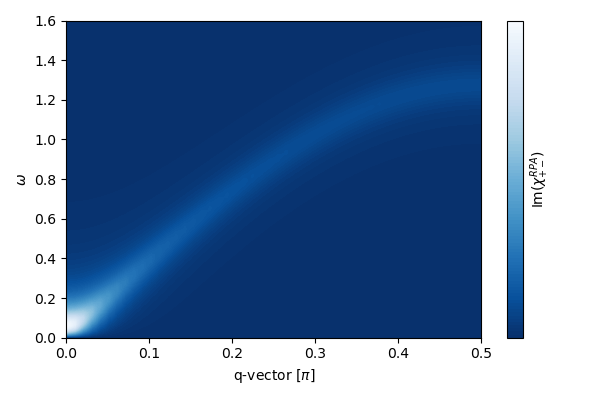
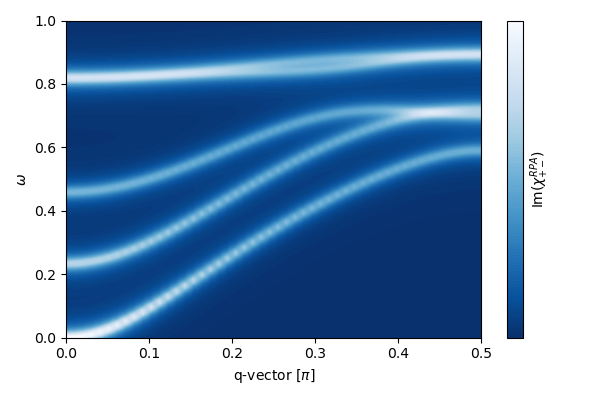
Update

Changed region(s): [[0.06, 0.06, 0.81, 0.87], [0.06, 0.33, 0.09, 0.39], [0.06, 0.03, 0.09, 0.06]]

diff --git a/src/pyqula/chitk/chiAB.py b/src/pyqula/chitk/chiAB.py
@@ -6,7 +6,8 @@ from numba import jit,prange
 
 @jit(nopython=True)
 def chiAB_jit(ws1,es1,ws2,es2,omegas,A,B,T,delta):
-    """Compute the response function"""
+    """Compute the response function.
+    A and B are expected to be local operators, like Sz in site 0"""
     cutoff = delta/100 # cutoff for occupation difference
     beta = 1./T # thermal broadening
     out  = np.zeros(omegas.shape[0],dtype=np.complex128) # initialize
@@ -31,13 +32,109 @@ def chiAB_jit(ws1,es1,ws2,es2,omegas,A,B,T,delta):
 
 @jit(nopython=True,parallel=True)
 def chiAB_matrix_jit(ws1,es1,ws2,es2,energies,Ais,Bjs,temp,delta):
-    """Compute the ChiAB matrix"""
+    """Compute the full ChiAB matrix, element by element"""
     ni = len(Ais) # number of operators
     nj = len(Bjs) # number of operators
     out = np.zeros((ni,nj,len(energies)),dtype=np.complex128) # initialize
-    for i in prange(ni): # loop
-        for j in prange(nj): # loop
+    for i in prange(ni): # loop over rows of the matrix
+        for j in prange(nj): # loop over columns of the matrix
             out[i,j,:] = chiAB_jit(ws1,es1,ws2,es2,energies,Ais[i],
                     Bjs[j],temp,delta) # compute the response
-    return out # return
+    return np.transpose(out,(2,0,1)) # return transposed, first energy, then ij
+
+
+@jit(nopython=True)
+def chiAB_full_matrix_jit(ws1,es1,ws2,es2,omegas,A,B,T,delta):
+    """Compute the full matrix of the response function.
+    A and B are full operators, for example the full Sz operator"""
+    ### WARNING ###
+    # this function assumes that the Hamiltonian is spinful and non-Nambu
+    ### WARNING ###
+    # initialize the result
+    ni = ws1.shape[0]//2 # number of operators, dimension of matrix/2
+    nj = ni # number of operators
+    outm = np.zeros((ni,nj,len(omegas)),dtype=np.complex128) # initialize
+    # now do the loop over wavefunctions
+    cutoff = delta/100 # cutoff for occupation difference
+    beta = 1./T # thermal broadening
+    n = len(ws1) # number of wavefunctions
+    Aws2 = (A@ws2.T).T # compute all the applied wavefunctions
+    Bws1 = (B@ws1.T).T # compute all the applied wavefunctions 
+    occs1 = (-np.tanh(beta*es1) + 1.)/2. # occupations
+    occs2 = (-np.tanh(beta*es2) + 1.)/2. # occupations
+    for i in range(n): # loop over wavefunctions
+        oi = occs1[i] # first occupation
+        for j in range(n): # loop over wavefunctions
+            oj = occs2[j] # second occupation
+            fac0 = oi - oj # occupation factor
+            if np.abs(fac0)<cutoff: continue # skip contribution if too small
+            wci = np.conjugate(ws1[i]) # get this wavefunction
+            wcj = np.conjugate(ws2[j]) # get this wavefunction
+            Awj = Aws2[j] # get this one
+            Bwi = Bws1[i] # get this one
+            for ii in range(ni): # loop over rows of the correlator
+                for jj in range(nj): # loop over columns of the correlator
+                    fac  = np.sum(wci[2*ii:2*ii+2]*Awj[2*ii:2*ii+2]) # add the factor
+                    fac *= np.sum(wcj[2*jj:2*jj+2]*Bwi[2*jj:2*jj+2]) # add the factor
+                    outm[ii,jj,:] += fac0*fac*(1./(es1[i]-es2[j] - omegas + 1j*delta)) # add contribution
+    return outm # return result
+
+
+@jit(nopython=True,parallel=True)
+def chiAB_full_matrix_jit_kmesh(ws1k,es1k,ws2k,es2k,omegas,A,B,T,delta):
+    """Parallelize over kpoints"""
+    nk = es1k[:,0].shape[0] # number of kpoints
+    ni = es1k[0,:].shape[0]//2 # number of operators, dimension of matrix/2
+    nj = ni # number of operators
+    out = np.zeros((nk,ni,nj,len(omegas)),dtype=np.complex128) # initialize
+    for ik in prange(nk): # parallel loop over kpoints
+        ws1 = ws1k[ik,:,:].copy()
+        ws2 = ws2k[ik,:,:].copy()
+        es1 = es1k[ik,:].copy()
+        es2 = es2k[ik,:].copy()
+        out[ik,:,:,:] = chiAB_full_matrix_jit(ws1,es1,ws2,es2,omegas,A,B,T,delta)
+    return out
+
+import scipy.linalg as lg
+
+def chiAB_matrix_ksum(h,ks,q,omegas,A,B,T,delta):
+    """Perform the integral over k, using parallelization
+    over kpoints"""
+    # this function is currently only implemented for spinful
+    # a spinless and Nmabu implementation needs to be done
+    if h.has_eh: raise # not implemented for Nambu
+    if not h.has_spin: raise # not implemented for spinless
+    hk = h.get_hk_gen() # get generator
+    n = h.intra.shape[0] # shape
+    nk = len(ks) # number of kpoints
+    # storages for all kpoints
+    es1k = np.zeros((nk,n),dtype=np.float64) # storage
+    es2k = np.zeros((nk,n),dtype=np.float64) # storage
+    ws1k = np.zeros((nk,n,n),dtype=np.complex128) # storage
+    ws2k = np.zeros((nk,n,n),dtype=np.complex128) # storage
+    ik = 0 # counter
+    for k in ks: # loop over kpoints
+        m1 = hk(k) # get Hamiltonian
+        es1,ws1 = lg.eigh(m1)
+        ws1 = np.array(ws1.T,dtype=np.complex128)
+        m2 = hk(k+q) # get Hamiltonian
+        es2,ws2 = lg.eigh(m2)
+        ws2 = np.array(ws2.T,dtype=np.complex128)
+        # now store all
+        es1k[ik,:] = es1[:]
+        es2k[ik,:] = es2[:]
+        ws1k[ik,:,:] = ws1[:,:]
+        ws2k[ik,:,:] = ws2[:,:]
+        ik += 1
+    # and now perform the calculation in parallel
+    out = chiAB_full_matrix_jit_kmesh(ws1k,es1k,ws2k,es2k,omegas,A,B,T,delta)
+    out = np.transpose(out,(0,3,1,2)) # switch the indexes
+    return np.mean(out,axis=0) # average over kpoints
+
+
+
+
+
+
+
 

diff --git a/src/pyqula/chi.py b/src/pyqula/chi.py
@@ -103,8 +103,10 @@ def chiAB(h,q=None,nk=60,**kwargs):
 
 def chiAB_q(h,energies=np.linspace(-3.0,3.0,100),q=[0.,0.,0.],nk=60,
                delta=0.1,temp=None,A=None,B=None,projs=None,
-               imode="mesh",
-               mode="matrix"):
+               imode="mesh", # integration mode in momentum space
+               ij_mode = "explicit", # loop over elements mode
+               mode="matrix" # return object
+               ):
     """Compute AB response function
        - energies: energies of the dynamical response
        - q: q-vector of the response
@@ -112,8 +114,10 @@ def chiAB_q(h,energies=np.linspace(-3.0,3.0,100),q=[0.,0.,0.],nk=60,
        - delta: imaginary part
        - A: first operator
        - B: second operator
-       - projs: projection operators
-       - mode: response to compute"""
+       - projs: local projection operators
+       - imode: integration mode
+       - ij_mode: loop ove elements mode
+       - mode: output to return"""
     if temp is None: temp = delta # as delta
     hk = h.get_hk_gen() # get generator
     if A is None or B is None:
@@ -128,6 +132,8 @@ def chiAB_q(h,energies=np.linspace(-3.0,3.0,100),q=[0.,0.,0.],nk=60,
     if projs is None:
         from . import operators
         projs = [operators.index(h,n=[i]) for i in range(len(h.geometry.r))]
+    else: 
+        ij_mode = "explicit" # do the loop explicitly
     pAs = np.array([pi@A for pi in projs]) # compute these projectors
     pBs = np.array([pi@B for pi in projs]) # compute these projectors
     def getk(k):
@@ -140,21 +146,29 @@ def chiAB_q(h,energies=np.linspace(-3.0,3.0,100),q=[0.,0.,0.],nk=60,
         def getAB(Ai,Bj): # compute for a single operator
             return chiAB_jit(ws1,es1,ws2,es2,energies,Ai,Bj,temp,delta)
         if mode=="matrix": # return a matrix
-            # simple implementation
+            # simplest implementation, not optimal
 #            out = np.array([[getAB(pA,pB) for pA in pAs] for pB in pBs])
+            # parallelized (over matrix elements) implementation
             parallel.set_num_threads() # set the number of threads
-            out = chiAB_matrix_jit(ws1,es1,ws2,es2,energies,
-                    pAs,pBs,temp,delta)
-            return np.transpose(out,(2,0,1)) # return array of matrices
+            out = chiAB_matrix_jit(ws1,es1,ws2,es2,energies,pAs,pBs,temp,delta)
+            return out # return array of matrices
         elif mode=="trace": # return the trace
             out = np.array([getAB(pi@A,pi@B) for pi in projs])
             return np.mean(out,axis=0) # sum over the first axis
+        elif mode=="diagonal": # return the diagonal elements
+            out = np.array([getAB(pi@A,pi@B) for pi in projs])
+            return np.transpose(out,(1,0)) # return, first energy, then i
         else: raise # not implemented
     ks = h.geometry.get_kmesh(nk=nk) # get the kmesh
     # call in parallel
     if imode=="mesh": # do a mesh
-        out = [getk(k) for k in ks] # call 
-        out = np.mean(out,axis=0) # sum over kpoints
+        if ij_mode=="accelerated": # (maybe?) accelerated function
+            parallel.set_num_threads() # set the number of threads
+            out = chiAB_matrix_ksum(h,ks,q,energies,A,B,temp,delta)
+        elif ij_mode=="explicit": # explicit function, this is preferred
+            out = [getk(k) for k in ks] # call 
+            out = np.mean(out,axis=0) # sum over kpoints
+        else: raise # not implemented
     elif imode=="adaptive": # do a mesh
         from . import integration
         if h.dimensionality==0: out = getk([0.]) # single point
@@ -185,7 +199,9 @@ def chiABmap(h,energies=np.linspace(-3.0,3.0,100),nq=30,
 
 # accelerated function to compute AB response
 from .chitk.chiAB import chiAB_matrix_jit
+from .chitk.chiAB import chiAB_full_matrix_jit
 from .chitk.chiAB import chiAB_jit
+from .chitk.chiAB import chiAB_matrix_ksum
 
 
 

diff --git a/src/pyqula/chitk/spinchi.py b/src/pyqula/chitk/spinchi.py
@@ -16,13 +16,15 @@ def spinchi_ladder(H,v=[0.,0.,1.],RPA=True,**kwargs):
     # this is not finished yet
     sp = (sx + 1j*sy)/2. # ladder operator
     sm = (sx - 1j*sy)/2. # ladder operator
-    U = H.V # get the interaction
-    if U is not None: # finite interaction
-        U = U[(0,0,0)] # onsite interaction matrix
-        U = sp@U # project on the operator
-        U = V2U_matrix(U) # transform the U matrix (2N) into the (N)
-        U = -2*U # beware of this minus sign for spin response (!!!)
-    if not RPA: U = None # no RPA
+    if RPA: # RPA mode
+        U = H.V # get the interaction
+        if U is not None: # finite interaction
+            if len(U)>1: raise # not implemented for momentum dependent
+            U = U[(0,0,0)] # onsite interaction matrix
+            U = sp@U # project on the operator
+            U = V2U_matrix(U) # transform the U matrix (2N) into the (N)
+            U = -2*U # beware of this minus sign for spin response (!!!)
+    else: U = None # no RPA
     return chi_AB_RPA(H,A=sp,B=sm,V=U,**kwargs) # non-interacting response
 
 

diff --git a/examples/1d/rpa/main.py b/examples/1d/rpa/main.py
@@ -8,7 +8,7 @@ from pyqula import parallel
 parallel.numba_cores = 4
 
 
-g = geometry.honeycomb_zigzag_ribbon(2)
+g = geometry.honeycomb_zigzag_ribbon(3)
 #g = geometry.lieb_ribbon(2)
 g = geometry.bichain()
 #g = geometry.chain()
@@ -16,10 +16,11 @@ g = geometry.bichain()
 #g = geometry.lieb_lattice()
 h = g.get_hamiltonian()
 #h.add_sublattice_imbalance(3.)
-from pyqula import chi
+from pyqula import parallel
+#parallel.numba_cores = 2
 
 U = 3.  
-nk = 20
+nk = 100
 hmf = h.copy() ; hmf.add_antiferromagnetism(0.5)
 #hmf = h.copy() ; hmf.add_exchange([0.,0.,1.])
 #h.add_exchange([0.,0.,0.3])
@@ -35,7 +36,7 @@ import time
 t0 = time.time()
 
 def f(q):
-    return h.get_spinchi_ladder(q=[q,q,0.],nk=nk,energies=energies,delta=2e-2,
+    return h.get_spinchi_ladder(q=[q,0.,0.],nk=nk,energies=energies,delta=2e-2,
             imode="mesh")
 
 #from pyqula import parallel

diff --git a/examples/readme_examples/rpa_lieb_ferro/main.py b/examples/readme_examples/rpa_lieb_ferro/main.py
@@ -11,7 +11,8 @@ energies=np.linspace(.0,1.,400) # energies
 
 chimap = [] # storage for the results
 for q in qs: # loop over qvectors
-    es,chis = h.get_spinchi_ladder(q=q,energies=energies) # compute RPA tensor
+    es,chis = h.get_spinchi_ladder(q=q,energies=energies,delta=2e-2) 
+    # compute RPA tensor
     cs = [np.trace(c).imag for c in chis] # imaginary part of the trace
     chimap.append(cs) # store 
 

diff --git a/src/pyqula/chitk/rpa.py b/src/pyqula/chitk/rpa.py
@@ -24,6 +24,7 @@ def spinchi_pm_RPA(h,U=0.,v=[0.,0.,1.],**kwargs):
     """Compute the spin RPA response for a hamiltonian.
      - v is the chosen quantization axis of the ladder operators
      - U is the Hubbard interaction"""
+     # v needs to be implemented
     sx = h.get_operator("sx") # spin operator, eigen +-1
     sy = h.get_operator("sy") # spin operator, eigen +-1
     sz = h.get_operator("sz") # spin operator, eigen +-1